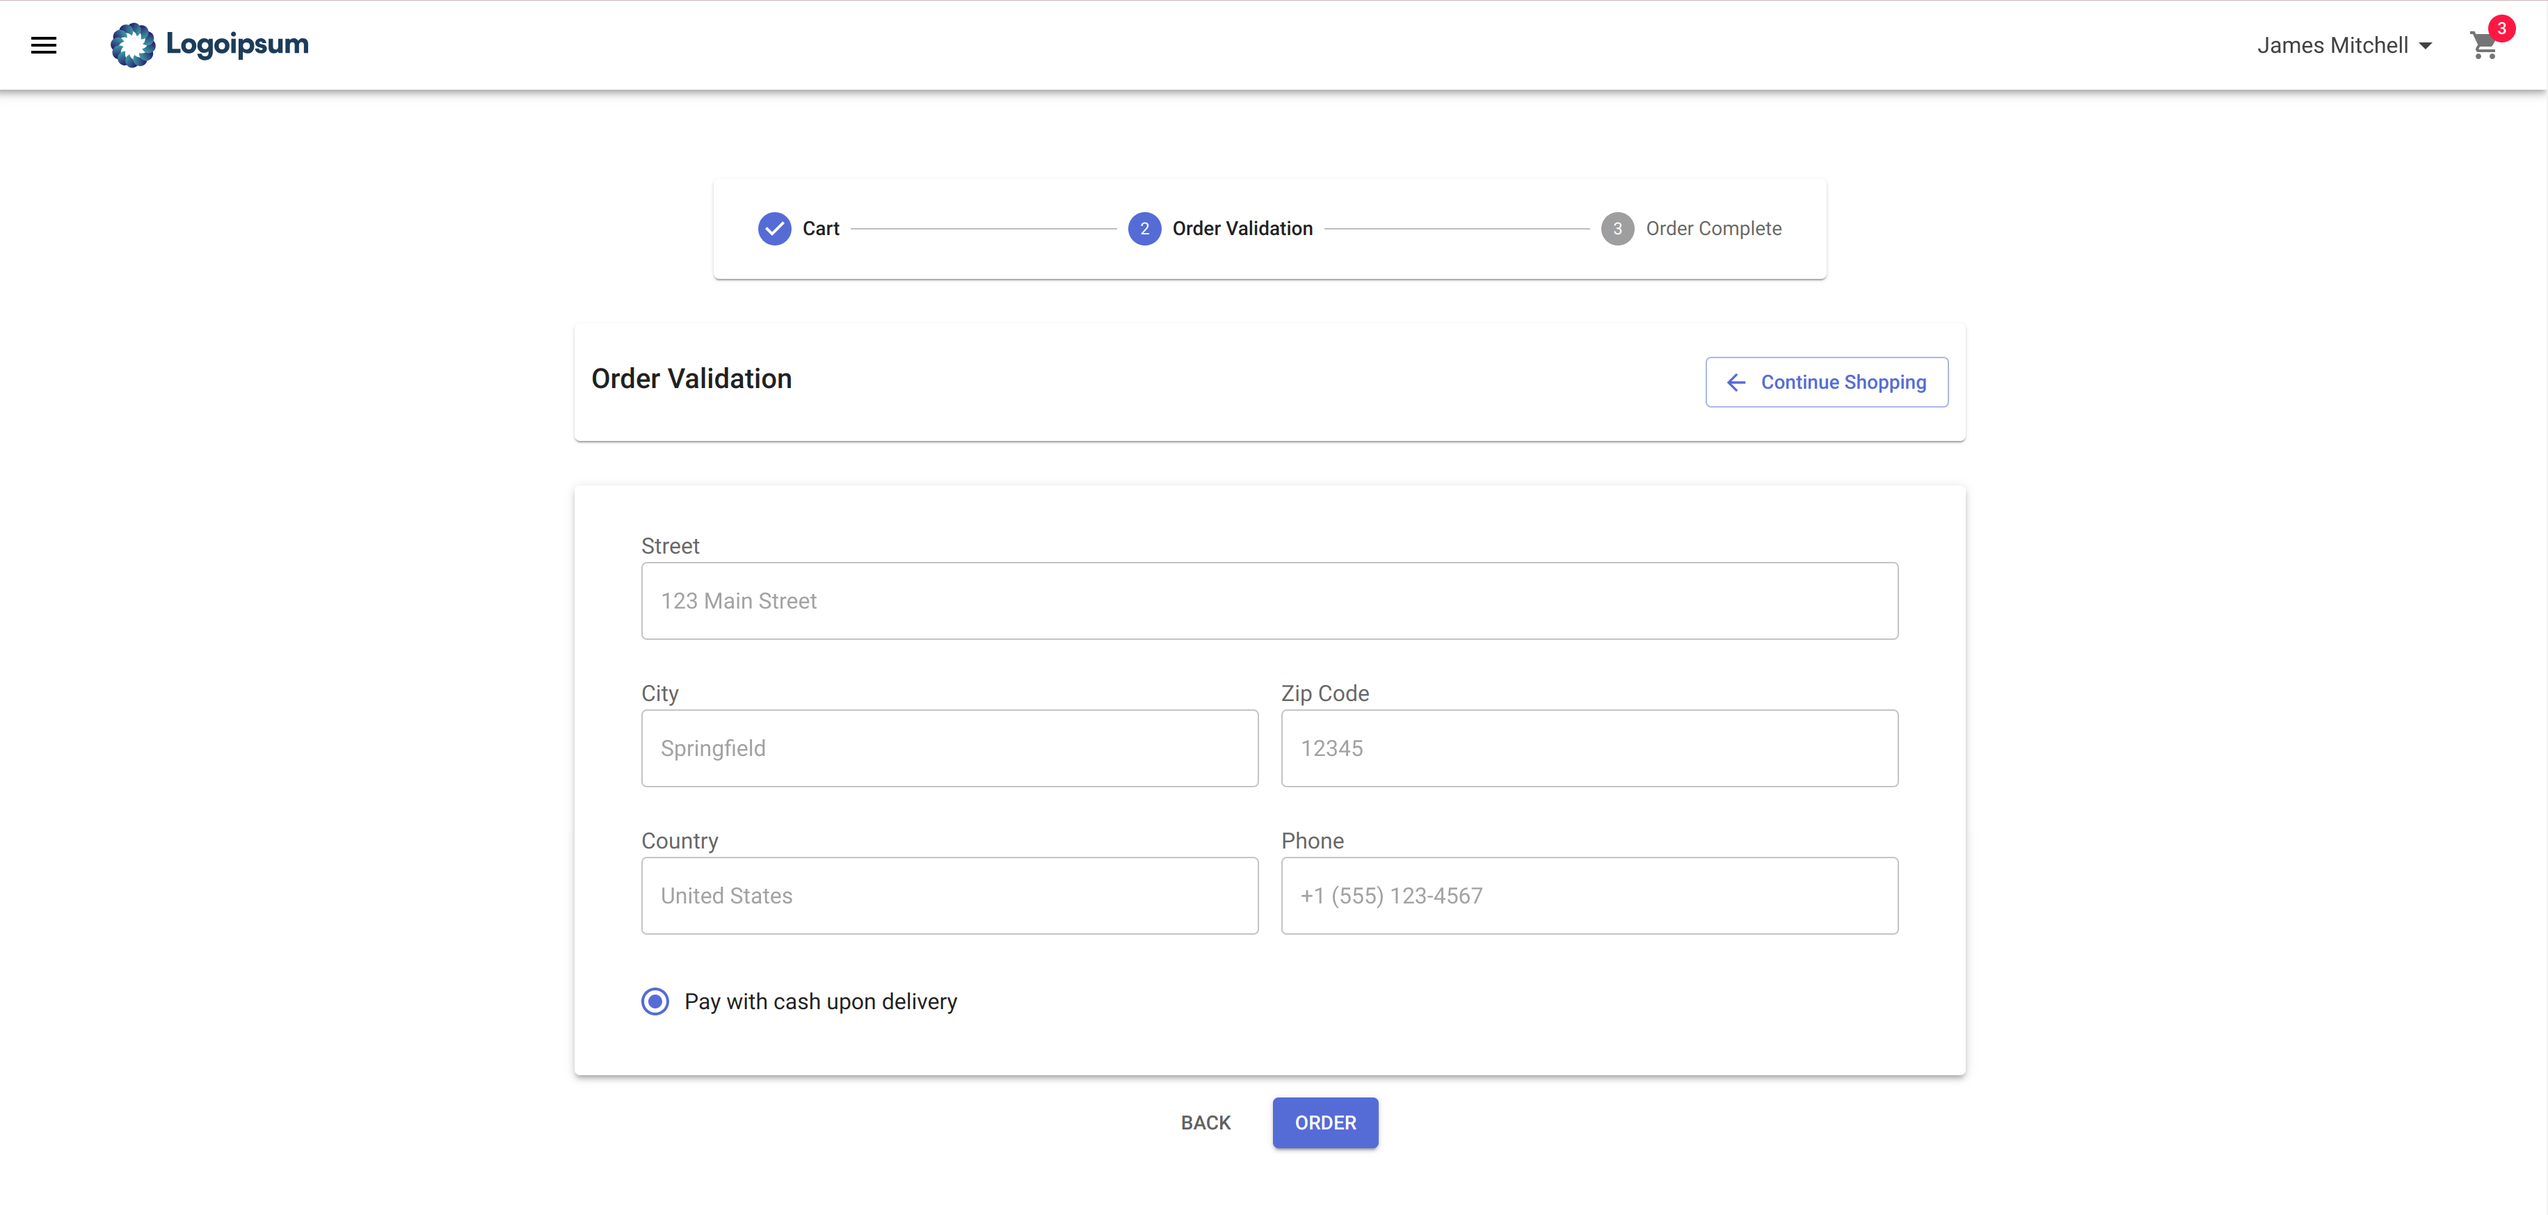
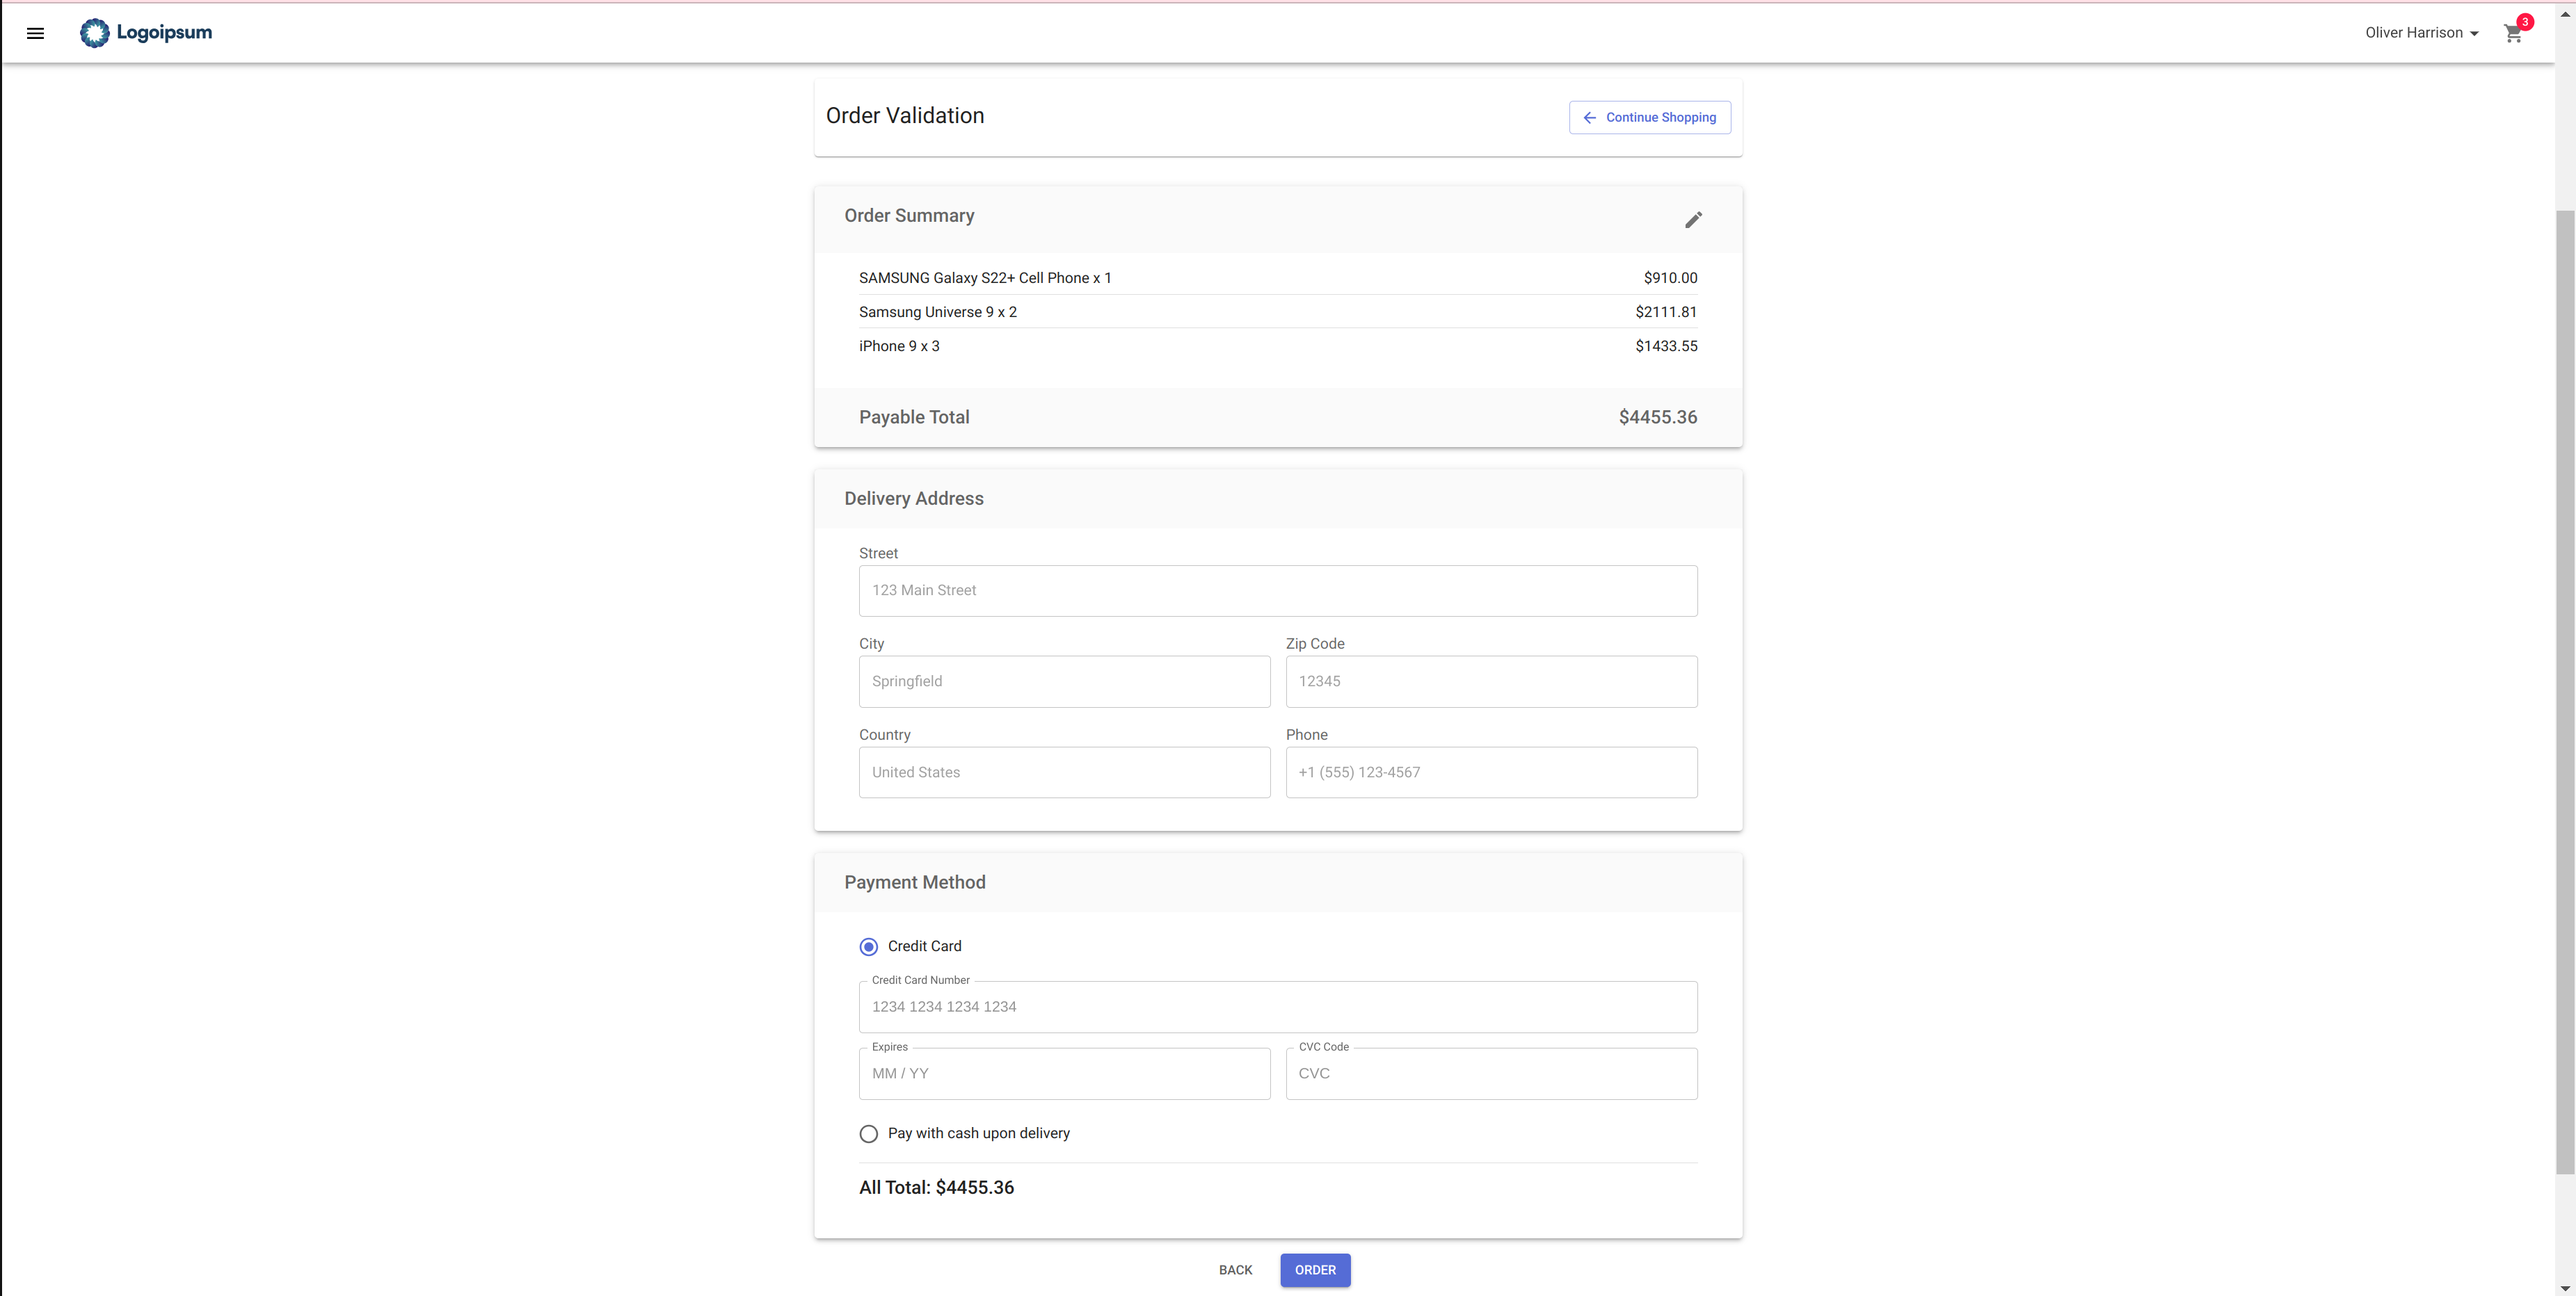
add payment feature

diff --git a/data/projects/shoppingify.js b/data/projects/shoppingify.js
@@ -2,7 +2,7 @@ export default {
   name: "Shoppingify Webite",
   technology: "Django/React",
   image: "shoppingify/entry.png",
-  technologies: ["Figma", "Digital Ocean", "Docker", "DRF", "Nextjs", "Redux", "MUI", "Typescript"],
+  technologies: ["Figma", "Digital Ocean", "Docker", "DRF", "Nextjs", "Redux", "MUI", "Typescript", "Stripe"],
   overview: `Shoppingify is an eCommerce website that offers a delightful experience for both shop owners and customers, thanks to its numerous features such as`,
   features: [
     "Product Management: Shop owners can easily add products with images, discounts, and categories to keep their store up-to-date and well-organized.",
@@ -14,6 +14,7 @@ export default {
     "Shopping Cart: Customers can add products to their shopping cart, adjust quantities, and review their selections, with the number of items and total price displayed on a dedicated page, effortlessly without the need to log in.",
     "Customer Authentication: Customers will only be required to log in to validate their order, enabling them to track its status easily later. The interface includes a simple option to recover their account if they forget their password.",
     "Order Validation: Customers are prompted to enter their shipping details to ensures accurate order fulfillment and delivery",
+    "Flexible Payment Options: Provide customers with the convenience of choosing between credit card payments or cash upon delivery, enhancing their shopping experience with versatile payment methods.",
     "Order Complete: An animated congratulatory message will be displayed to the customers to inform them that their order was placed successfully.",
     "Order Processing: Shop owners have the option to process completed orders, modify some details if needed, before moving the order to the shipped state.",
     "Order Management: Shop owners are able to easily manage the state of different orders, including Processing, Shipped, Delivered, and Canceled."
